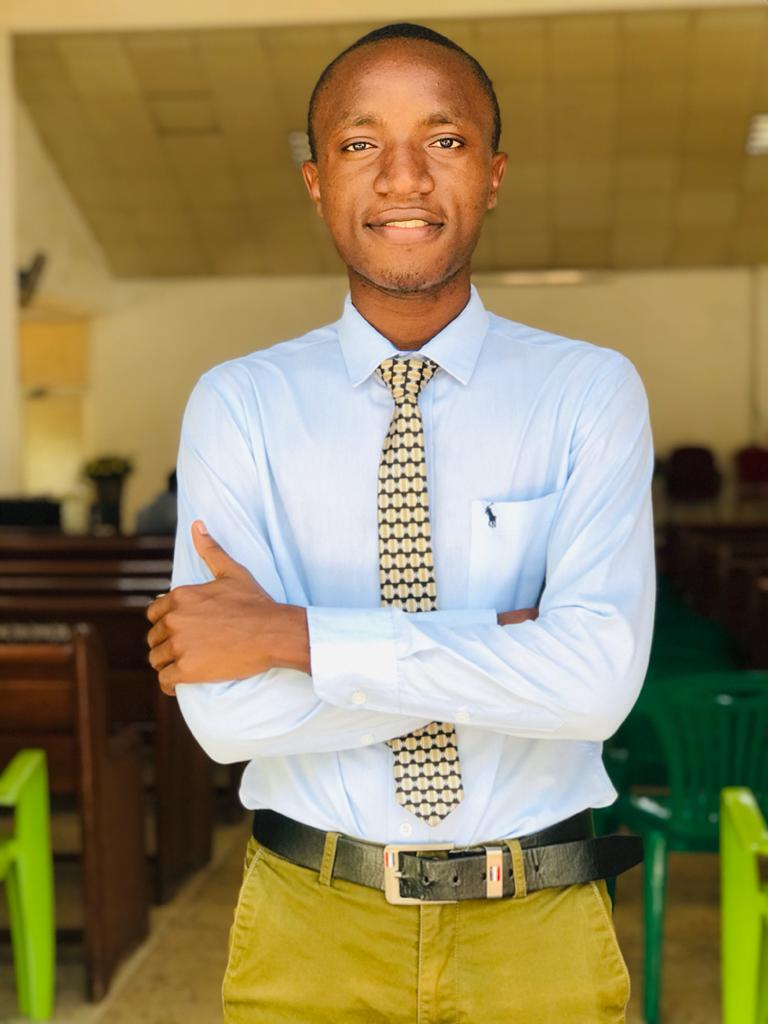
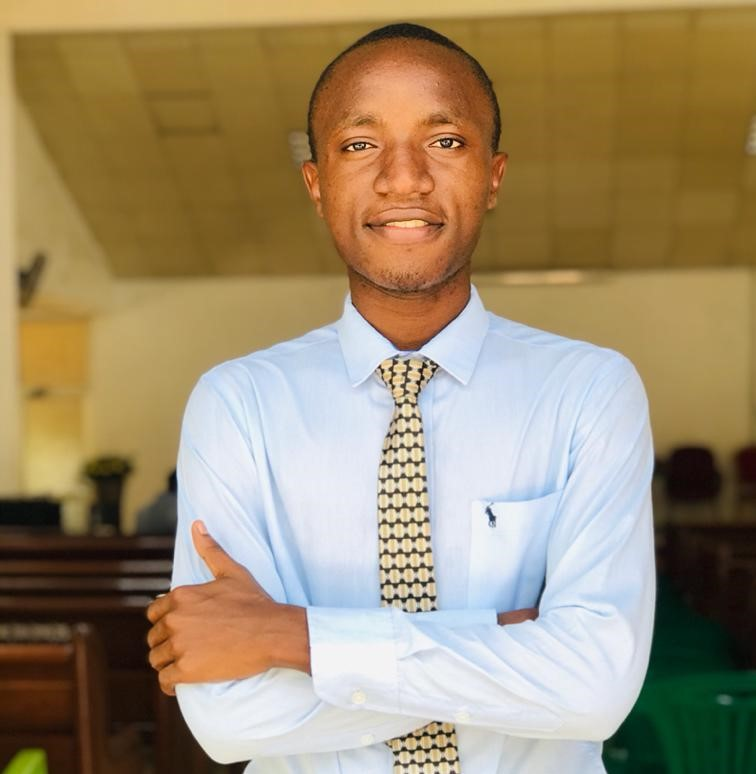
files modified

diff --git a/hope/templates/hope/pages/indexComponents/activities.html b/hope/templates/hope/pages/indexComponents/activities.html
@@ -10,33 +10,33 @@
 
             <div class="col-lg-4 col-md-6 box wow bounceInUp" data-wow-duration="1.4s">
                 <div class="icon"><i class="ion-ios-analytics-outline"></i></div>
-                <h4 class="title"><a href="">Helping the poor</a></h4>
-                <p class="description">dfhfjg</p>
+                <h4 class="title"><a href="{% url 'hope:activities' %}#first">VISITING THE ORPHAGE CENTERS</a></h4>
+                <p class="description">The intention of visiting these centers is to relieve sufferings and necessities of orphans by supplying their needs but also to socialize with them...</p>
             </div>
             <div class="col-lg-4 col-md-6 box wow bounceInUp" data-wow-duration="1.4s">
                 <div class="icon"><i class="ion-ios-bookmarks-outline"></i></div>
-                <h4 class="title"><a href="">Comforting the forgotten</a></h4>
-                <p class="description">Minim veniam, quis nostrud exercitation ullamco laboris nisi ut aliquip ex ea commodo consequat tarad limino ata</p>
+                <h4 class="title"><a href="{% url 'hope:activities' %}#1">COMFORTING PATIENTS FROM DIFFERENT HOSIPITALS</a></h4>
+                <p class="description">Nevertheless, that we are providing physical needs to those who are sick, but a tender visit and comfort in their chronic illness accompanied with...</p>
             </div>
             <div class="col-lg-4 col-md-6 box wow bounceInUp" data-wow-duration="1.4s">
                 <div class="icon"><i class="ion-ios-paper-outline"></i></div>
-                <h4 class="title"><a href="">Accompany the lonely</a></h4>
-                <p class="description">Duis aute irure dolor in reprehenderit in voluptate velit esse cillum dolore eu fugiat nulla pariatur</p>
+                <h4 class="title"><a href="{% url 'hope:activities' %}#2">TO VISIT PRISONERS</a></h4>
+                <p class="description">Another step that is crucial is to comfort the prisoners, helping them with their basic needs, distributing to them books that will help them to...</p>
             </div>
             <div class="col-lg-4 col-md-6 box wow bounceInUp" data-wow-delay="0.1s" data-wow-duration="1.4s">
                 <div class="icon"><i class="ion-ios-speedometer-outline"></i></div>
-                <h4 class="title"><a href="">Magni Dolores</a></h4>
-                <p class="description">Excepteur sint occaecat cupidatat non proident, sunt in culpa qui officia deserunt mollit anim id est laborum</p>
+                <h4 class="title"><a href="{% url 'hope:activities' %}#3">SUPPORTING ELDERLY PEOPLE</a></h4>
+                <p class="description">Many elderly individuals suffer from loneliness, neglect and psychological distress due to their dependence, as the team we have to take serious...</p>
             </div>
             <div class="col-lg-4 col-md-6 box wow bounceInUp" data-wow-delay="0.1s" data-wow-duration="1.4s">
                 <div class="icon"><i class="ion-ios-barcode-outline"></i></div>
-                <h4 class="title"><a href="">Nemo Enim</a></h4>
-                <p class="description">At vero eos et accusamus et iusto odio dignissimos ducimus qui blanditiis praesentium voluptatum deleniti atque</p>
+                <h4 class="title"><a href="{% url 'hope:activities' %}#4">VISITING SCHOOLS AND IMPACTING YOUTHS LIFE</a></h4>
+                <p class="description">Through motivations, and providing good presentations that will enlights the mind of many youth will bring a great impact upon many students...</p>
             </div>
             <div class="col-lg-4 col-md-6 box wow bounceInUp" data-wow-delay="0.1s" data-wow-duration="1.4s">
                 <div class="icon"><i class="ion-ios-people-outline"></i></div>
-                <h4 class="title"><a href="">Eiusmod Tempor</a></h4>
-                <p class="description">Et harum quidem rerum facilis est et expedita distinctio. Nam libero tempore, cum soluta nobis est eligendi</p>
+                <h4 class="title"><a href="{% url 'hope:activities' %}#5">CONDUCTING HEALTH SEMINORS</a></h4>
+                <p class="description">Prevention is better than cure. We will join hands together with other members of health professions to create an education platform on health...</p>
             </div>
 
         </div>

diff --git a/hope/templates/hope/pages/index.html b/hope/templates/hope/pages/index.html
@@ -80,7 +80,7 @@
     <div class="row">
         <div class="col-md-6">
             <div class="container text-center">
-                <h3>Get to know us</h3>
+                <h3>What is ThereIsHope?</h3>
                 <p> There is hope foundation group, is the society created on 1st of august 2020, consisting of both undergraduates, graduates, other supporters outside the campus, Created with the purpose of bringing back the living hope to the thousands
                     of people who are suffering outside over there</p>
                 <a class="cta-btn" href="{% url 'hope:about' %}#abt">See More</a>
@@ -192,7 +192,7 @@
             <div class="row">
                 <div class="col-lg-3 col-md-6 wow fadeInUp tm">
                     <div class="member h-100">
-                        <img src="{% static 'assets/img/victor.jpg' %}" class="w-100 h-100" alt="">
+                        <img src="{% static 'assets/img/victor2.jpg' %}" class="w-100 h-100" alt="">
                         <div class="member-info">
                             <div class="member-info-content">
                                 <h4>Victor Jumanne Joshua </h4>

diff --git a/hope/templates/hope/footer/footer.html b/hope/templates/hope/footer/footer.html
@@ -6,8 +6,8 @@
 
                 <div class="col-lg-3 col-md-6 footer-info">
                     <h3>ThereIsHope</h3>
-                    <p>Cras fermentum odio eu feugiat lide par naso tierra. Justo eget nada terra videa magna derita valies darta donna mare fermentum iaculis eu non diam phasellus. Scelerisque felis imperdiet proin fermentum leo. Amet volutpat consequat
-                        mauris nunc congue.</p>
+                    <p>The main objective of this society is to restore and bring the living hope in the lives of many people who seems neglected, uncared and forgotten. This special groups includes, orphans, drug addicted people, prisoners, elderly people,
+                        patients from the hospitals, also children who are homeless.</p>
                 </div>
 
                 <div class="col-lg-3 col-md-6 footer-links">

diff --git a/hope/urls.py b/hope/urls.py
@@ -10,6 +10,7 @@ urlpatterns = [
     path('about', v.about_view, name='about'),
     path('view/<slug:slug>', v.blog_view, name='view'),
     path('contactMessage', v.contact_view, name='message'),
+    path('activities', v.activities_view, name='activities'),
     path('portfolios', v.portfolio_view, name='portfolios'),
     path('about-me', v.about_me, name='about_me'),
     path('donate', v.donation_view, name='donation'),

diff --git a/hope/views.py b/hope/views.py
@@ -37,7 +37,9 @@ def portfolio_view(request):
 def about_me(request):
     return render(request, 'hope/pages/aboutMe.html')
     
-
+def activities_view(request):
+    return render(request, 'hope/pages/activitiesPage.html')
+    
 def donation_view(request):
 
     return render(request, 'hope/pages/donation.html')    
